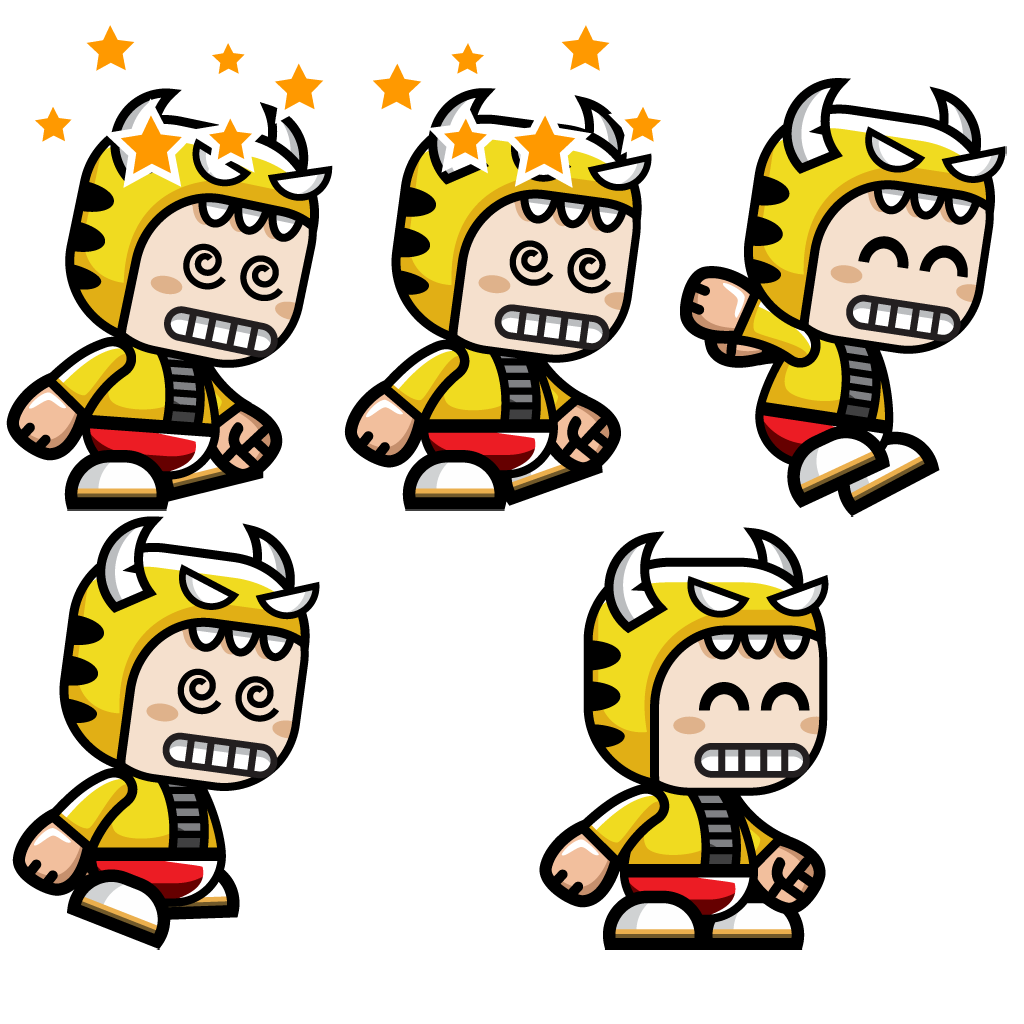
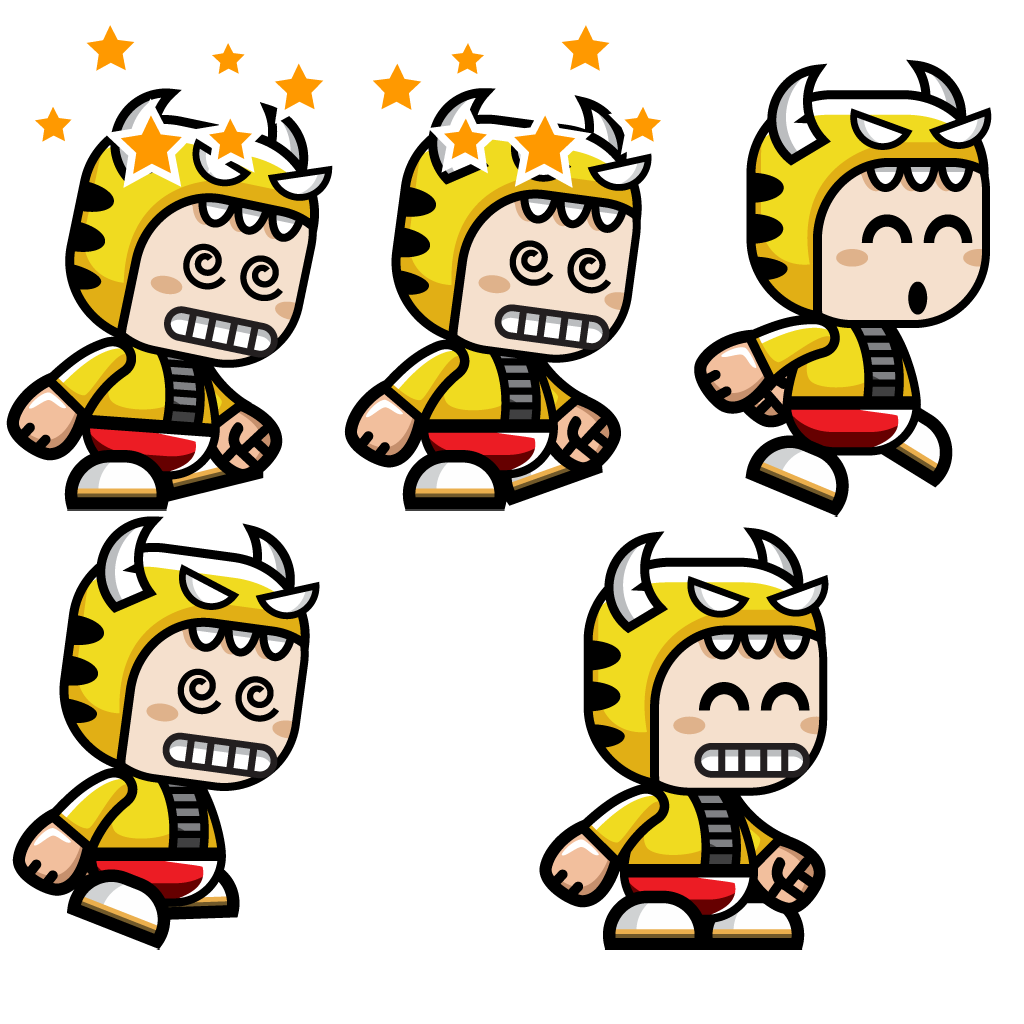
Added Heros assets and created animations

Changed region(s): [[0.6562, 0.0625, 1.0, 0.5]]

diff --git a/core/src/com/sawan/mathattack/asset/Hero.java b/core/src/com/sawan/mathattack/asset/Hero.java
@@ -1,0 +1,149 @@
+/**
+ * File name:	Hero.java
+ * Version:		1.0
+ * Date:		20/03/2015 20:05:03
+ * Author:		Sawan
+ * Copyright:	Copyright 200X Sawan
+ *
+ *				This file is part of Math Attack.
+ *
+ *				Math Attack is free software: you can redistribute it 
+ *				and/or modify it under the terms of the GNU General
+ *				Public License as published by the Free Software 
+ *				Foundation, either version 3 of the License, 
+ *				or (at your option) any later version.
+ *
+ *				Math Attack is distributed in the hope that it will 
+ *				be useful, but WITHOUT ANY WARRANTY; without even 
+ *				the implied warranty of MERCHANTABILITY or FITNESS 
+ *				FOR A PARTICULAR PURPOSE. See the GNU General Public
+ *			    License for more details.
+ *
+ *				You should have received a copy of the GNU General 
+ *				Public License along with Math Attack. If not, see 
+ *				http://www.gnu.org/licenses/.
+ */
+package com.sawan.mathattack.asset;
+
+import com.badlogic.gdx.Gdx;
+import com.badlogic.gdx.files.FileHandle;
+import com.badlogic.gdx.graphics.Texture;
+import com.badlogic.gdx.graphics.g2d.Animation;
+import com.badlogic.gdx.graphics.g2d.TextureAtlas;
+import com.badlogic.gdx.scenes.scene2d.ui.Skin;
+import com.sawan.mathattack.animation.AnimationCreator;
+
+// TODO: Auto-generated Javadoc
+/**
+ * The Class Hero.
+ *
+ * @author Sawan
+ */
+public class Hero {
+	/** The Constant FILE_IMAGE_ATLAS. */
+	private final static String FILE_IMAGE_ATLAS = "data/ma/game/characters/Hero.atlas";
+	
+	/** The Constant FILE_UI_SKIN. */
+	private final static String FILE_UI_SKIN = "skin/uiskin.json";
+	
+	
+	/** The atlas. */
+	public static TextureAtlas atlas;
+	
+	/** The skin. */
+	public static Skin skin;
+	
+	// Assets
+	/** The hero_standing. */
+	public static Animation hero_standing;
+	
+	/** The hero_jumping. */
+	public static Animation hero_jumping;
+	
+	/** The hero_dizzy. */
+	public static Animation hero_dizzy;
+	
+	/** The hero_faint. */
+	public static Animation hero_faint;
+	
+	
+	/**
+	 * Loads texture file.
+	 *
+	 * @param file the file
+	 * @return the texture
+	 */
+	public static Texture loadTexture(String file) {
+		return new Texture(Gdx.files.internal(file));
+	}
+	
+	/**
+	 * Gets the atlas. Creates a texture atlas if is not created. 
+	 *
+	 * @return the atlas
+	 */
+	public static TextureAtlas getAtlas() {
+		if (atlas == null) { 
+			atlas =  new TextureAtlas(Gdx.files.internal(FILE_IMAGE_ATLAS));
+		}
+	
+		return atlas;
+	}
+	
+	/**
+	 * Gets the skin.
+	 *
+	 * @return the skin
+	 */
+	public static Skin getSkin() {
+		if (skin == null) {
+			FileHandle skinFile = Gdx.files.internal(FILE_UI_SKIN);
+			skin = new Skin(skinFile);
+		}
+		
+		return skin;
+	}
+	
+	/**
+	 * Load all. Loads all the resources.
+	 */
+	public static void loadAll() {
+		relaseResources();
+		loadImages();
+		loadAnimations();
+		loadSoundsAndMusics();
+	}
+
+	/**
+	 * Relase resources.
+	 */
+	private static void relaseResources() {
+		skin = null;
+		atlas = null;
+	}
+
+	/**
+	 * Load images.
+	 */
+	public static void loadImages() {
+
+	}
+
+
+	/**
+	 * Load animations.
+	 */
+	public static void loadAnimations() {
+		hero_standing = AnimationCreator.getAnimationFromMultiTextures(getAtlas(), "stand", 2, 0.065f, false, false);
+		hero_jumping = AnimationCreator.getAnimationFromMultiTextures(getAtlas(), "jump", 2, 0.065f, false, false);
+		hero_dizzy = AnimationCreator.getAnimationFromMultiTextures(getAtlas(), "dizzy", 2, 0.065f, false, false);
+		hero_faint = AnimationCreator.getAnimationFromMultiTextures(getAtlas(), "faint", 5, 0.065f, false, false);
+	}
+
+	/**
+	 * Load sounds and musics.
+	 */
+	public static void loadSoundsAndMusics() {
+	
+	}
+}
